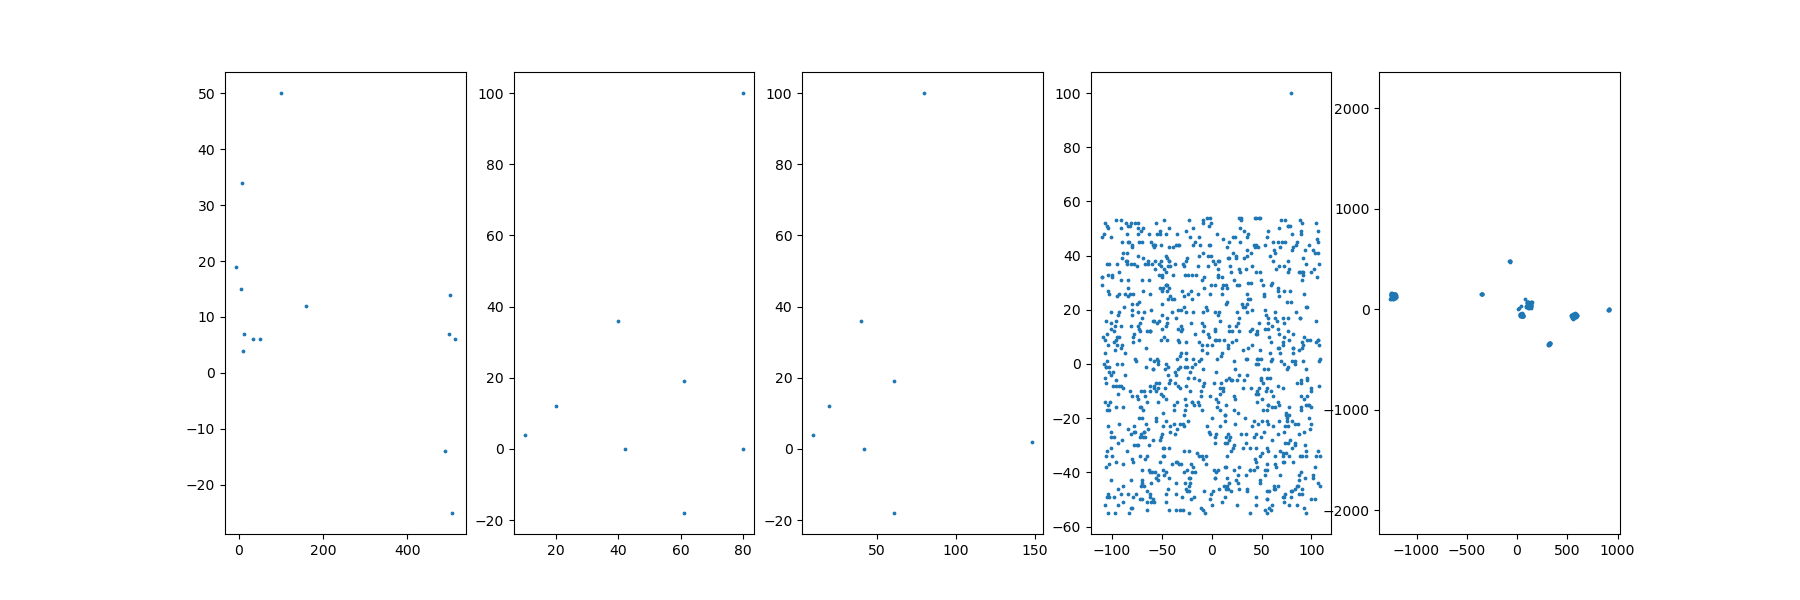
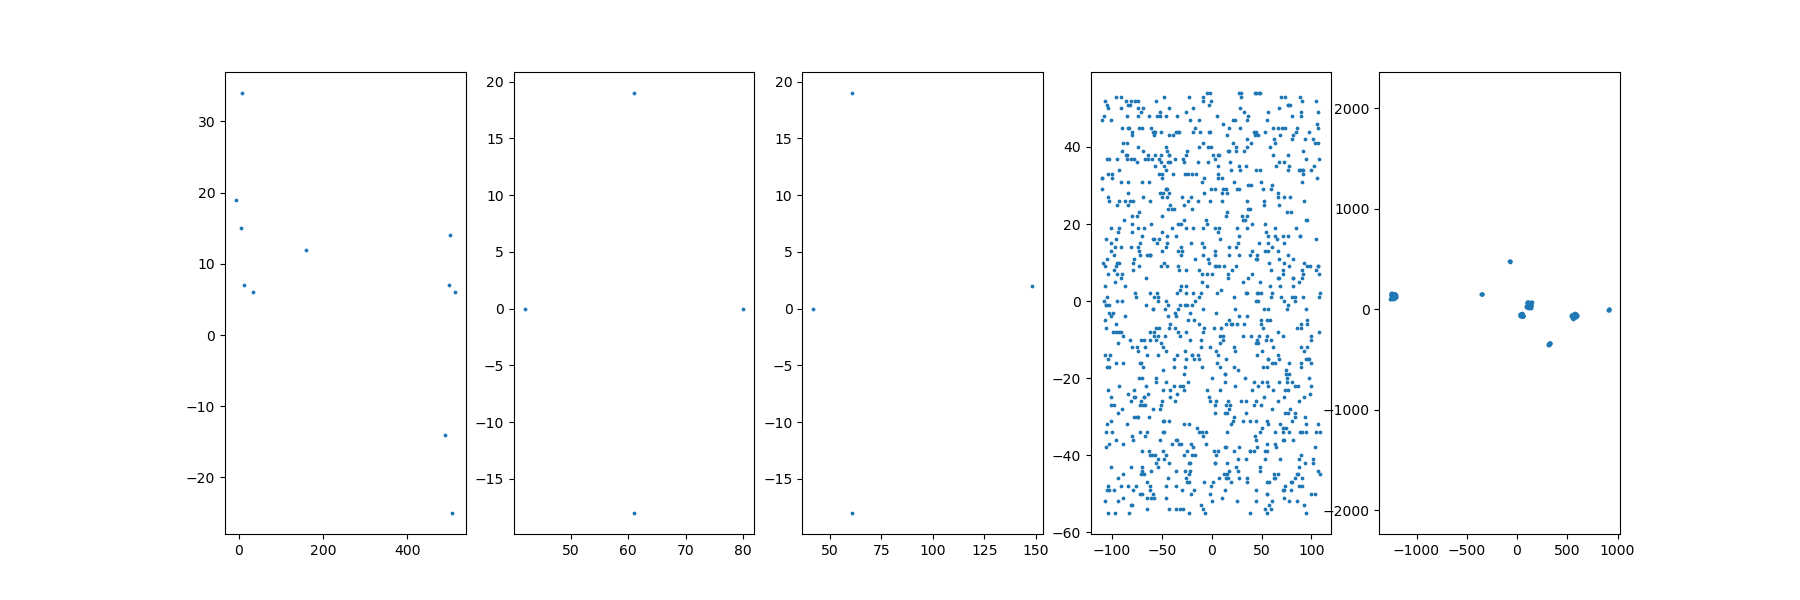
fix incorrect input

diff --git a/mpl_lab/mpl_moroz.py b/mpl_lab/mpl_moroz.py
@@ -11,11 +11,15 @@ y = [[] for i in range(number_of_datas)]
 for i in range(number_of_datas):
     with open(os.path.join("data", "00" + str(i + 1) + ".dat"), 'r') as file:
         for line in file:
-            try:
+            count = float(line.split()[0])
+            break
+        for line in file:
+            if count <= 0:
+                break
+            else:
+                count -= 1
                 y[i].append(float(line.split()[1]))
                 x[i].append(float(line.split()[0]))
-            except:
-                pass
     axs[i].scatter(x[i], y[i], s=3)
 
 plt.axis('equal')
